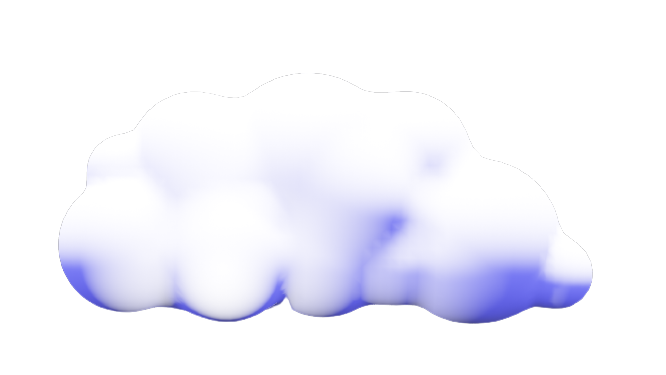
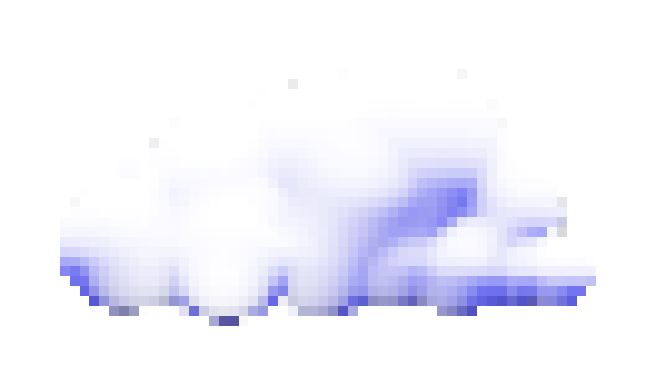
many changes
A few more quality of life improvements. The sound circle is in the middle and changes colors and sprites get removed

Changed region(s): [[0.0901, 0.4107, 0.9009, 0.88]]

diff --git a/public/main.js b/public/main.js
@@ -43,6 +43,7 @@ let localCloudsAgent;
 var cloudAnimation;
 var cloud;
 let clouds;
+let tempColor;
 
 let rings;
 function preload() {
@@ -52,7 +53,7 @@ function preload() {
 
   //loading the images and animation for the sphere sprites
     spinningAnimation = loadAnimation("./BallSprite/001.png","./BallSprite/008.png");
-    cloudAnimation = loadAnimation("./Clouds/1.png","./Clouds/10.png");
+    cloudAnimation = loadAnimation("./Clouds/1.png","./Clouds/6.png");
    bg=loadImage("./assets/bg.png");
 
 }
@@ -100,13 +101,14 @@ rings = new Group();
   
   // Generate a random hexadecimal color code. Example: '#0129af'
   const randomColor = '#' + Math.floor( Math.random() * Math.pow( 16, 6 ) ).toString( 16 );
+  tempColor=randomColor;
 
   // Initialises thisAgent with a random position and color
-  localCloudsAgent = new CloudsAgent(round(random(5,10)));
+  localCloudsAgent = new CloudsAgent(round(random(10,15)));
 
   localAgent = new Agent( random( width), random( height ), randomColor);
   
-  localSoundAgent = new SoundAgent( 100, 100, 'green' );
+  localSoundAgent = new SoundAgent( width/2, height/2, 'green' );
 
   
  
@@ -139,8 +141,10 @@ rings = new Group();
 function draw() {
   
   background(bg);
-  
+
+   cloudDraw();
   localSoundAgent.show();
+
   // Optionally draw background here.
   // world.drawBackground();
 
@@ -151,12 +155,13 @@ function draw() {
 
   // draw slow circle
   slowCircleRadius = 100
-  fill( 255, 100 );
-  circle( slowCirclePos.x, slowCirclePos.y, slowCircleRadius * 2 );
+  fill( tempColor+"80" );
+  circle( slowCirclePos.x, slowCirclePos.y, slowCircleRadius+50 );
   
   // Run these methods for every agent in the world
   for ( let agent of world.agents ) {
-    const speed = agent.checkSpace( slowCirclePos, slowCircleRadius )
+    //const speed = agent.checkSpace( slowCirclePos, slowCircleRadius );
+    const speed = 0.1;
     agent.move( speed );
     agent.show();
 

diff --git a/public/agent.js b/public/agent.js
@@ -3,6 +3,7 @@ var circles;
 let speed;
 let frameSpeed;
 let colorPicker;
+var cloudHolder;
 
 function spriteCollided(collider, sp) {
   let sHold;
@@ -15,6 +16,7 @@ function spriteCollided(collider, sp) {
   //collider.remove();
 }
 function cloudCollided(sprite, cloud){
+cloudHolder=cloud;
 
 }
 
@@ -45,9 +47,11 @@ class Agent {
     // Sprite creation
     //created a sprite with and (x, y) position and a (width, height) spriteSize position
     this.sprite = createSprite(this.pos.x+10, this.pos.y+10, this.spriteSize, this.spriteSize);
+    this.sprite.setCollider("circle", 0, 0, this.spriteSize/2);
+    //this.sprite.debug=true;
 
     // how big is this sphere going to be?
-    this.sprite.scale = this.spriteSize / 30;
+    //this.sprite.scale = this.spriteSize / 30;
 
     // how heavy is the sprite higher means it doesn't get bounced hard
     this.sprite.mass = this.spriteSize / 20;
@@ -59,7 +63,7 @@ class Agent {
     this.sprite.addAnimation("fun", spinningAnimation);
 
     // how fast the sphere allowed to travel
-    this.sprite.maxSpeed = this.speed;
+    this.sprite.maxSpeed = 3;
 
     //add the sprite to a group for use with collision this is an array or sprites
     sprites.add(this.sprite);
@@ -79,7 +83,7 @@ class Agent {
   *  Draws the agent at the given <pos> position lerped (interpolated) to the <newPos> position. Filled with the color property.
   */
   show() {
-cloudDraw();
+
   
     fill(this.color);
     
@@ -92,7 +96,7 @@ cloudDraw();
     //the type of collision we want to use with the callback function
     this.sprite.collide(sprites,spriteCollided);
 
-   if(this.sprite.overlap(clouds)){
+   if(this.sprite.overlap(clouds, cloudCollided)){
     this.sprite.maxSpeed=1;
    }
    else this.sprite.maxSpeed=3;

diff --git a/public/CloudsAgent.js b/public/CloudsAgent.js
@@ -12,7 +12,10 @@ class CloudsAgent{
 this.cloudNum=cloudNum;
 cloudAnimation.frameDelay=150;
 for(let i=0;i<this.cloudNum;i++){
-this.cloud=createSprite(random(width)+95, random(height/3), 32, 32);
+
+this.cloud=createSprite(random(width), random(height), 32, 32);
+this.cloud.setCollider("rectangle", 0, 0, 350, 200)
+//this.cloud.debug=true;
 this.cloud.scale=0.2;
 this.cloud.setSpeed(random(0.05,0.1));
 this.cloud.addAnimation("moving", cloudAnimation);

diff --git a/public/world.js b/public/world.js
@@ -42,8 +42,9 @@ class World {
   
     // If found, splice() removes the element in the array at the given index.
     if ( index > -1 ) { 
-      
+      this.agents[index].sprite.remove();
       this.agents.splice( index, 1 );
+
       console.log('[WORLD]: Agent %s removed!', data.color );
       
     } else {

diff --git a/public/SoundAgent.js b/public/SoundAgent.js
@@ -48,7 +48,7 @@ class SoundAgent extends Agent {
                 localSoundAgent.color = '#00ff00';
                 this.state = 0;
             }
-
+            tempColor=localSoundAgent.color;
 
     }
 
